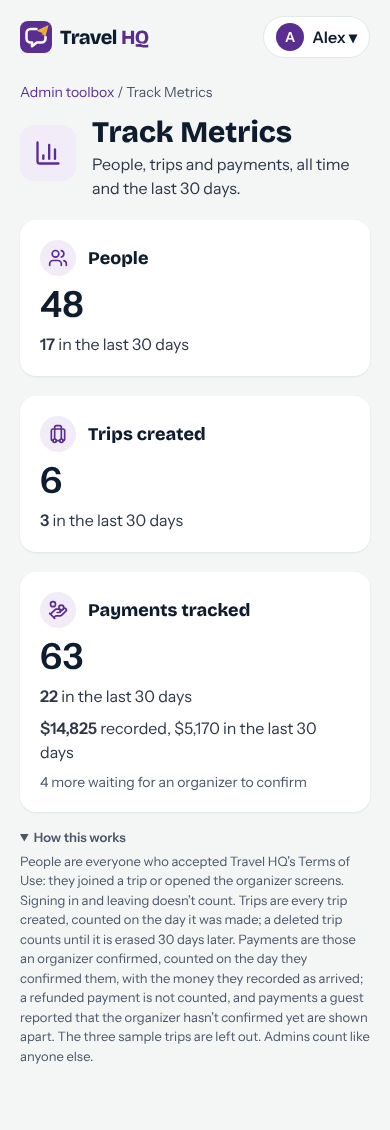
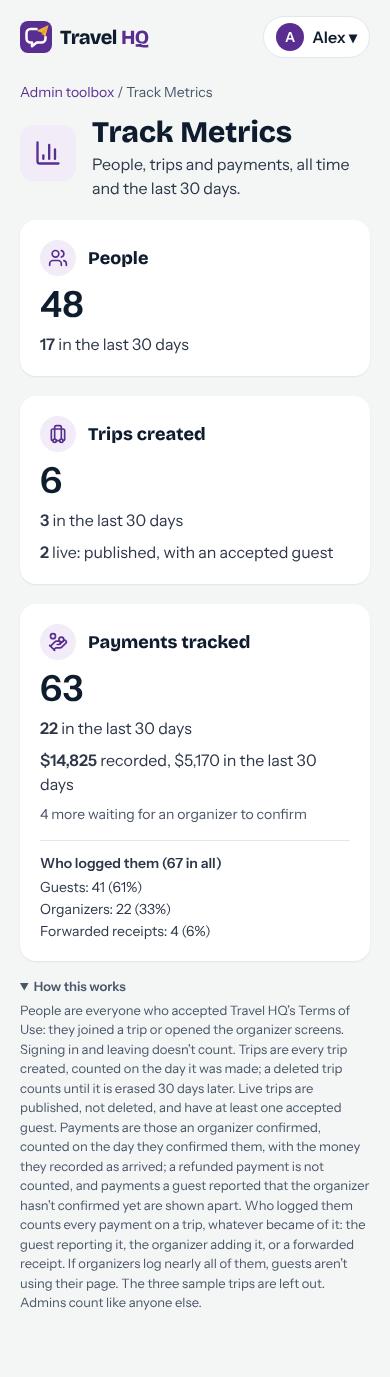
[Platform] Metrics: live trips and who logged each payment
Live trips are published, not deleted, with at least one accepted guest.
Every payment on a real trip is split by who logged it (guest, organizer,
forwarded receipt). Migration 20261102030000 drops and remakes
admin_metrics() with the new columns; no data change.

diff --git a/apps/api/src/trips/trips.service.ts b/apps/api/src/trips/trips.service.ts
@@ -1275,9 +1275,15 @@ export class TripsService {
     return {
       users: { total: n(row.users), recent: n(row.usersRecent) },
       trips: { total: n(row.trips), recent: n(row.tripsRecent) },
+      liveTrips: n(row.liveTrips),
       payments: { total: n(row.payments), recent: n(row.paymentsRecent) },
       paymentCents: { total: n(row.paymentCents), recent: n(row.paymentCentsRecent) },
       paymentsWaiting: n(row.paymentsWaiting),
+      loggedBy: {
+        guest: n(row.loggedByGuest),
+        organizer: n(row.loggedByOrganizer),
+        email: n(row.loggedByEmail),
+      },
     }
   }
 
@@ -1368,11 +1374,15 @@ type MetricsRow = Record<
   | 'usersRecent'
   | 'trips'
   | 'tripsRecent'
+  | 'liveTrips'
   | 'payments'
   | 'paymentsRecent'
   | 'paymentCents'
   | 'paymentCentsRecent'
-  | 'paymentsWaiting',
+  | 'paymentsWaiting'
+  | 'loggedByGuest'
+  | 'loggedByOrganizer'
+  | 'loggedByEmail',
   number | bigint
 >
 
@@ -1380,29 +1390,43 @@ type MetricsRow = Record<
 async function countMetrics(prisma: PrismaService): Promise<MetricsRow> {
   const since = new Date(Date.now() - 30 * 24 * 60 * 60 * 1000)
   const real = { trip: { isSample: false } }
-  const [people, trips, tripsRecent, payments, waiting] = await Promise.all([
+  const [people, trips, tripsRecent, liveTrips, payments, waiting, logged] = await Promise.all([
     prisma.termsAcceptance.groupBy({ by: ['userId'], _min: { acceptedAt: true } }),
     prisma.trip.count({ where: { isSample: false } }),
     prisma.trip.count({ where: { isSample: false, createdAt: { gte: since } } }),
+    prisma.trip.count({
+      where: {
+        isSample: false,
+        published: true,
+        deletedAt: null,
+        guests: { some: { status: 'approved' } },
+      },
+    }),
     prisma.payment.findMany({
       where: { ...real, status: 'confirmed' },
       select: { decidedAt: true, receivedPaymentAmount: true },
     }),
     prisma.payment.count({ where: { ...real, status: 'reported' } }),
+    prisma.payment.groupBy({ by: ['loggedBy'], where: real, _count: { _all: true } }),
   ])
   const recent = payments.filter((p) => p.decidedAt && p.decidedAt >= since)
   const cents = (ps: typeof payments) =>
     ps.reduce((sum, p) => sum + (p.receivedPaymentAmount ?? 0), 0)
+  const by = (who: string) => logged.find((l) => l.loggedBy === who)?._count._all ?? 0
   return {
     users: people.length,
     usersRecent: people.filter((p) => p._min.acceptedAt && p._min.acceptedAt >= since).length,
     trips,
     tripsRecent,
+    liveTrips,
     payments: payments.length,
     paymentsRecent: recent.length,
     paymentCents: cents(payments),
     paymentCentsRecent: cents(recent),
     paymentsWaiting: waiting,
+    loggedByGuest: by('guest'),
+    loggedByOrganizer: by('organizer'),
+    loggedByEmail: by('email'),
   }
 }
 

diff --git a/apps/web/src/pages/AdminMetricsPage.tsx b/apps/web/src/pages/AdminMetricsPage.tsx
@@ -37,6 +37,31 @@ function Stat({
   )
 }
 
+/** Every payment logged, by who logged it, with each one's share. */
+function LoggedBy({ by }: { by: AdminMetrics['loggedBy'] }) {
+  const all = by.guest + by.organizer + by.email
+  const share = (n: number) => (all ? ` (${Math.round((n / all) * 100)}%)` : '')
+  return (
+    <div className="mt-2 border-t border-rule pt-3 text-sm text-body">
+      <p className="font-semibold">Who logged them ({count(all)} in all)</p>
+      <ul className="mt-1 flex flex-col gap-0.5">
+        <li>
+          Guests: {count(by.guest)}
+          {share(by.guest)}
+        </li>
+        <li>
+          Organizers: {count(by.organizer)}
+          {share(by.organizer)}
+        </li>
+        <li>
+          Forwarded receipts: {count(by.email)}
+          {share(by.email)}
+        </li>
+      </ul>
+    </div>
+  )
+}
+
 /**
  * Admin toolbox → Metrics: how many people use Travel HQ, the trips they made and the payments they tracked, all time
  * and the last 30 days. Sample trips are left out (admin_metrics).
@@ -64,7 +89,12 @@ export function AdminMetricsPage() {
       {metrics && (
         <div className="grid gap-5 sm:grid-cols-2 lg:grid-cols-3">
           <Stat icon={Users} label="People" metric={metrics.users} />
-          <Stat icon={Luggage} label="Trips created" metric={metrics.trips} />
+          <Stat icon={Luggage} label="Trips created" metric={metrics.trips}>
+            <p className="text-body">
+              <span className="font-semibold">{count(metrics.liveTrips)}</span> live: published,
+              with an accepted guest
+            </p>
+          </Stat>
           <Stat icon={HandCoins} label="Payments tracked" metric={metrics.payments}>
             <p className="text-body">
               <span className="font-semibold">{money(metrics.paymentCents.total)}</span> recorded,{' '}
@@ -73,6 +103,7 @@ export function AdminMetricsPage() {
             <p className="text-sm text-muted">
               {count(metrics.paymentsWaiting)} more waiting for an organizer to confirm
             </p>
+            <LoggedBy by={metrics.loggedBy} />
           </Stat>
         </div>
       )}

diff --git a/apps/web/src/pages/AdminPage.tsx b/apps/web/src/pages/AdminPage.tsx
@@ -34,7 +34,7 @@ const TOOLS: {
     title: 'Track Metrics',
     text: 'How many people use Travel HQ, how many trips they made and how many payments they tracked.',
     sub: 'People, trips and payments, all time and the last 30 days.',
-    how: 'People are everyone who accepted Travel HQ’s Terms of Use: they joined a trip or opened the organizer screens. Signing in and leaving doesn’t count. Trips are every trip created, counted on the day it was made; a deleted trip counts until it is erased 30 days later. Payments are those an organizer confirmed, counted on the day they confirmed them, with the money they recorded as arrived; a refunded payment is not counted, and payments a guest reported that the organizer hasn’t confirmed yet are shown apart. The three sample trips are left out. Admins count like anyone else.',
+    how: 'People are everyone who accepted Travel HQ’s Terms of Use: they joined a trip or opened the organizer screens. Signing in and leaving doesn’t count. Trips are every trip created, counted on the day it was made; a deleted trip counts until it is erased 30 days later. Live trips are published, not deleted, and have at least one accepted guest. Payments are those an organizer confirmed, counted on the day they confirmed them, with the money they recorded as arrived; a refunded payment is not counted, and payments a guest reported that the organizer hasn’t confirmed yet are shown apart. Who logged them counts every payment on a trip, whatever became of it: the guest reporting it, the organizer adding it, or a forwarded receipt. If organizers log nearly all of them, guests aren’t using their page. The three sample trips are left out. Admins count like anyone else.',
   },
   {
     to: '/admin/trips',

diff --git a/apps/api/src/core/tenant-rls.spec.ts b/apps/api/src/core/tenant-rls.spec.ts
@@ -712,6 +712,8 @@ suite('trip isolation', () => {
       await pay('P-m3', 'T1', 900, 'reported', '0 days')
       await pay('P-m4', 'T1', 300, 'refunded', '1 day')
       await pay('P-mS', 'S', 400, 'confirmed', '1 day')
+      await db.query(`UPDATE "Payment" SET "loggedBy" = 'organizer' WHERE id = 'P-m2'`)
+      await db.query(`UPDATE "Payment" SET "loggedBy" = 'email' WHERE id = 'P-m3'`)
       for (const [user, kind] of [
         ['u1', 'use'],
         ['u1', 'organizer'],
@@ -733,11 +735,16 @@ suite('trip isolation', () => {
           usersRecent: 2,
           trips: 2,
           tripsRecent: 2,
+          // T1 only: T2 is a draft and S a sample.
+          liveTrips: 1,
           payments: 2,
           paymentsRecent: 1,
           paymentCents: 1200,
           paymentCentsRecent: 700,
           paymentsWaiting: 1,
+          loggedByGuest: 2,
+          loggedByOrganizer: 1,
+          loggedByEmail: 1,
         },
       ])
     } finally {

diff --git a/apps/api/src/trips/trip-types.ts b/apps/api/src/trips/trip-types.ts
@@ -1283,11 +1283,15 @@ export interface AdminMetrics {
   users: AdminMetric
   /** Trips created (a deleted trip counts until it is erased). */
   trips: AdminMetric
+  /** Trips published, not deleted, with at least one accepted guest: real trips, not drafts. */
+  liveTrips: number
   /** Payments an organizer confirmed, and the money they recorded. */
   payments: AdminMetric
   paymentCents: AdminMetric
   /** Payments a guest reported that wait for the organizer. */
   paymentsWaiting: number
+  /** Every payment by who put it in: the guest, the organizer, or a forwarded receipt. */
+  loggedBy: { guest: number; organizer: number; email: number }
 }
 
 /** A reminder still to go out, for Trip Control's Reminders section. */

diff --git a/packages/types/src/index.ts b/packages/types/src/index.ts
@@ -1281,11 +1281,15 @@ export interface AdminMetrics {
   users: AdminMetric
   /** Trips created (a deleted trip counts until it is erased). */
   trips: AdminMetric
+  /** Trips published, not deleted, with at least one accepted guest: real trips, not drafts. */
+  liveTrips: number
   /** Payments an organizer confirmed, and the money they recorded. */
   payments: AdminMetric
   paymentCents: AdminMetric
   /** Payments a guest reported that wait for the organizer. */
   paymentsWaiting: number
+  /** Every payment by who put it in: the guest, the organizer, or a forwarded receipt. */
+  loggedBy: { guest: number; organizer: number; email: number }
 }
 
 /** A reminder still to go out, for Trip Control's Reminders section. */
